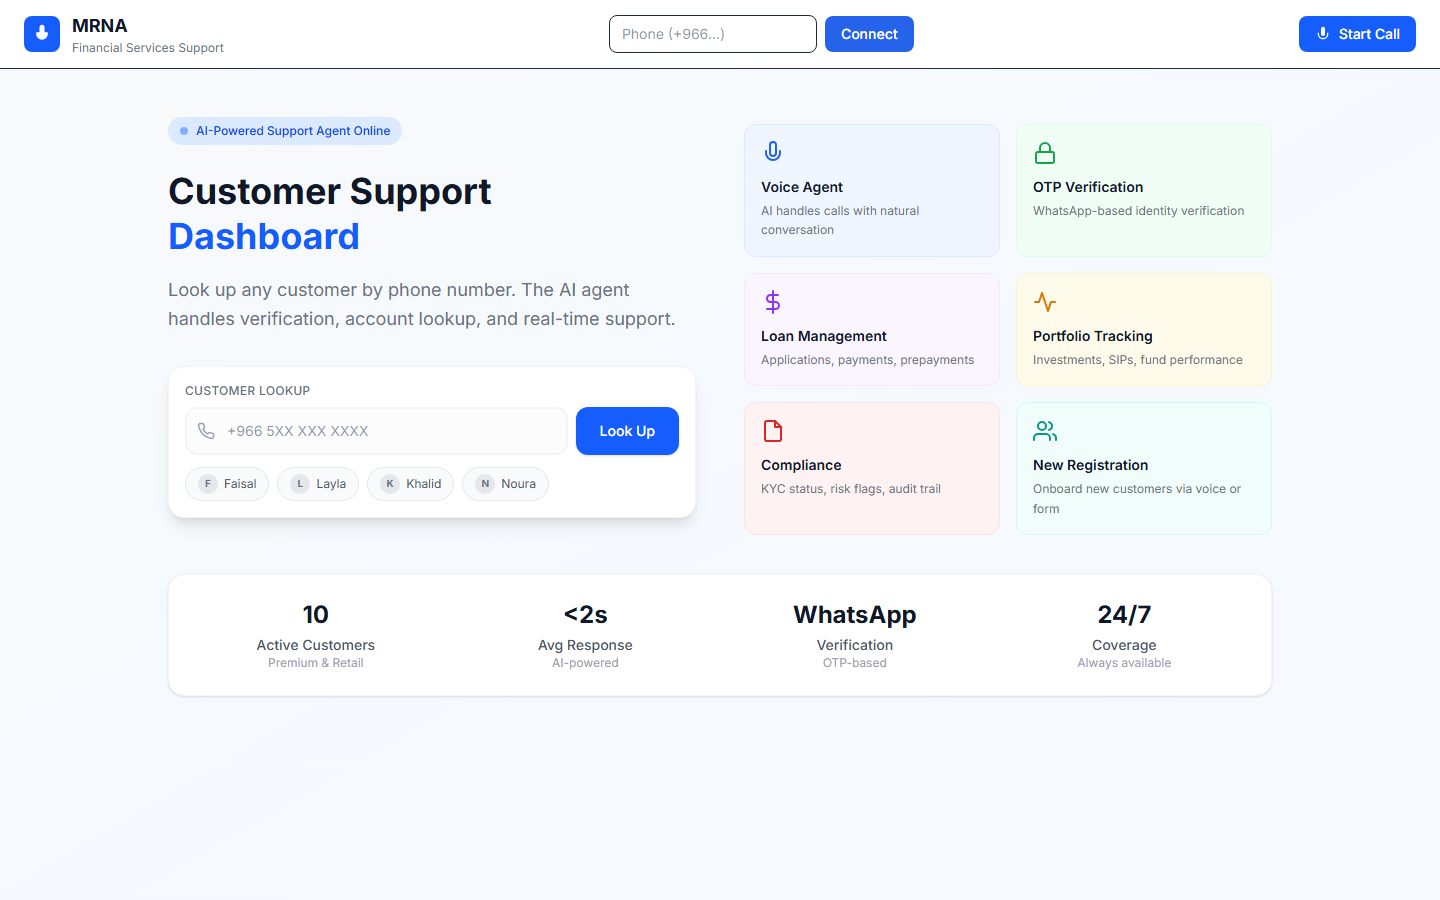
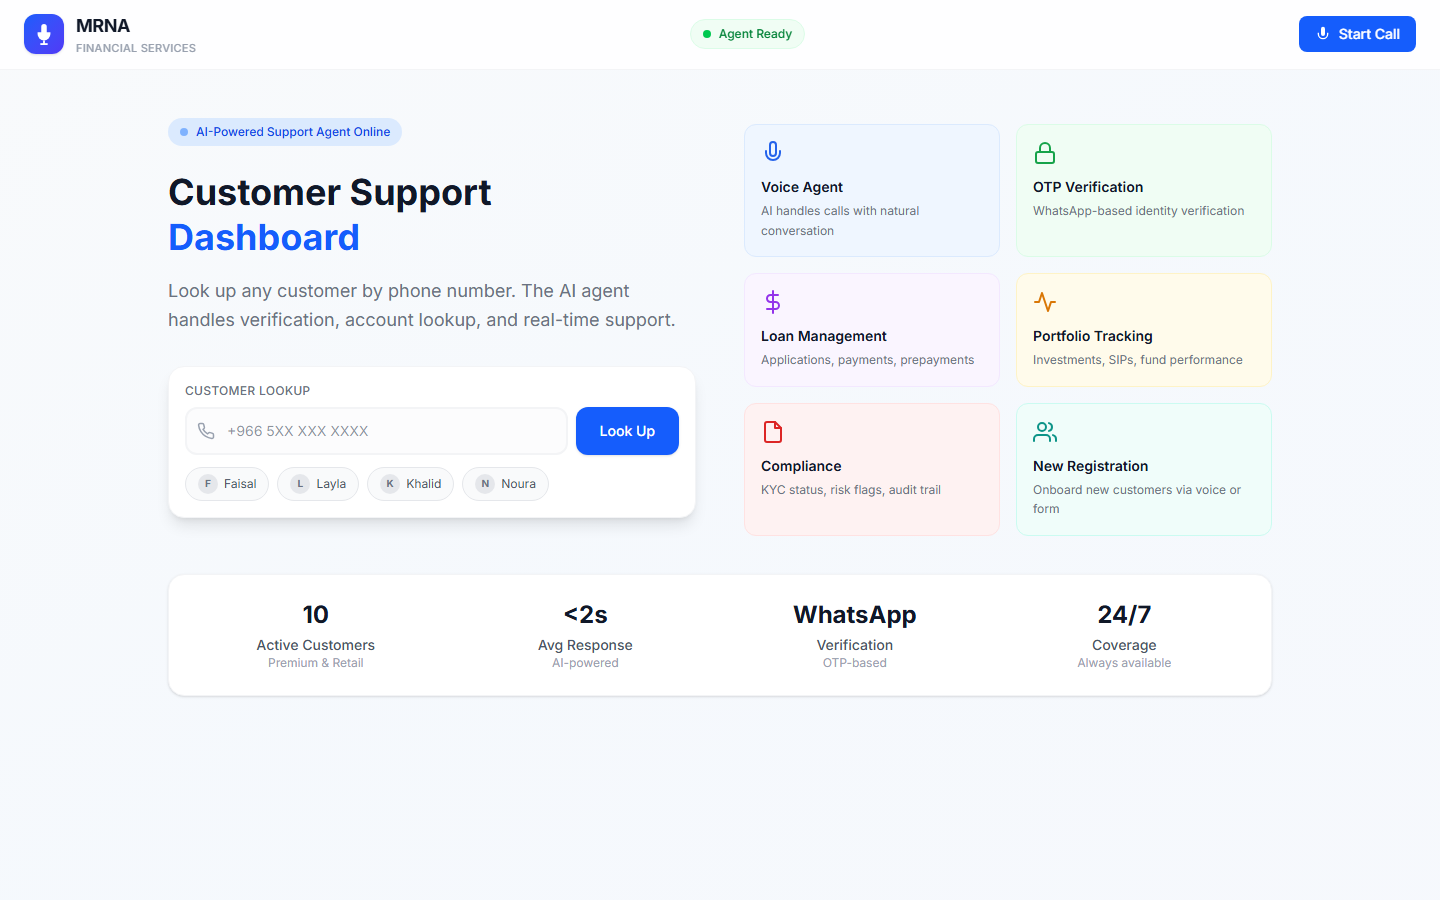
v2.9 - Clean header: remove search, add status indicators

diff --git a/frontend/src/app/page.tsx b/frontend/src/app/page.tsx
@@ -171,43 +171,49 @@ export default function Home() {
   return (
     <div className="min-h-screen" style={{ background: "var(--bg)" }}>
       {/* Header */}
-      <header className="bg-white border-b px-6 py-3 flex items-center justify-between sticky top-0 z-50">
+      <header className="bg-white/80 backdrop-blur-md border-b border-gray-100 px-6 py-3 flex items-center justify-between sticky top-0 z-50">
+        {/* Left: Brand */}
         <div className="flex items-center gap-3">
-          <div className="w-9 h-9 rounded-lg bg-blue-600 flex items-center justify-center">
-            <svg width="20" height="20" viewBox="0 0 24 24" fill="white"><path d="M12 1a3 3 0 0 0-3 3v8a3 3 0 0 0 6 0V4a3 3 0 0 0-3-3z"/><path d="M19 10v2a7 7 0 0 1-14 0v-2"/><line x1="12" y1="19" x2="12" y2="23"/><line x1="8" y1="23" x2="16" y2="23"/></svg>
+          <div className="w-10 h-10 rounded-xl bg-gradient-to-br from-blue-600 to-indigo-600 flex items-center justify-center shadow-sm">
+            <svg width="22" height="22" viewBox="0 0 24 24" fill="white" strokeWidth="0"><path d="M12 1a3 3 0 0 0-3 3v8a3 3 0 0 0 6 0V4a3 3 0 0 0-3-3z"/><path d="M19 10v2a7 7 0 0 1-14 0v-2"/><line x1="12" y1="19" x2="12" y2="23" stroke="white" strokeWidth="2"/><line x1="8" y1="23" x2="16" y2="23" stroke="white" strokeWidth="2"/></svg>
           </div>
           <div>
-            <h1 className="text-lg font-bold text-gray-900">MRNA</h1>
-            <p className="text-xs text-gray-500">Financial Services Support</p>
+            <h1 className="text-lg font-bold text-gray-900 tracking-tight">MRNA</h1>
+            <p className="text-[11px] text-gray-400 font-medium tracking-wide uppercase">Financial Services</p>
           </div>
         </div>
 
-        {/* Customer lookup */}
-        <div className="flex items-center gap-2">
-          <input
-            type="text"
-            placeholder="Phone (+966...)"
-            value={phone}
-            onChange={e => setPhone(e.target.value)}
-            onKeyDown={e => e.key === "Enter" && lookupAndCall()}
-            className="px-3 py-2 border rounded-lg text-sm w-52 focus:outline-none focus:ring-2 focus:ring-blue-500"
-          />
-          <button onClick={lookupAndCall} disabled={loading} className="btn btn-primary text-sm">
-            {loading ? "..." : "Connect"}
-          </button>
-        </div>
-
-        {/* Call status */}
-        <div className="flex items-center gap-3">
-          {callActive && (
-            <div className="flex items-center gap-2">
-              <span className="w-2.5 h-2.5 rounded-full bg-red-500 animate-pulse" />
-              <span className="text-sm font-medium text-red-600">LIVE</span>
+        {/* Center: Status indicators */}
+        <div className="flex items-center gap-4">
+          {callActive ? (
+            <>
+              <div className="flex items-center gap-2 px-3 py-1.5 bg-red-50 border border-red-100 rounded-full">
+                <span className="w-2 h-2 rounded-full bg-red-500 animate-pulse" />
+                <span className="text-xs font-semibold text-red-600 uppercase tracking-wide">Live Call</span>
+              </div>
+              {data?.customer && (
+                <div className="flex items-center gap-2 px-3 py-1.5 bg-blue-50 border border-blue-100 rounded-full">
+                  <span className="w-5 h-5 rounded-full bg-blue-600 flex items-center justify-center text-[10px] font-bold text-white">{(data.customer.name || "?")[0]}</span>
+                  <span className="text-xs font-medium text-blue-700">{data.customer.name}</span>
+                </div>
+              )}
+              {isNewCustomer && (
+                <div className="flex items-center gap-1.5 px-3 py-1.5 bg-amber-50 border border-amber-100 rounded-full">
+                  <svg width="12" height="12" viewBox="0 0 24 24" fill="none" stroke="#d97706" strokeWidth="2.5"><path d="M16 21v-2a4 4 0 0 0-4-4H6a4 4 0 0 0-4 4v2"/><circle cx="9" cy="7" r="4"/><line x1="19" y1="8" x2="19" y2="14"/><line x1="22" y1="11" x2="16" y2="11"/></svg>
+                  <span className="text-xs font-semibold text-amber-700">New Customer</span>
+                </div>
+              )}
+            </>
+          ) : (
+            <div className="flex items-center gap-2 px-3 py-1.5 bg-green-50 border border-green-100 rounded-full">
+              <span className="w-2 h-2 rounded-full bg-green-500" />
+              <span className="text-xs font-medium text-green-700">Agent Ready</span>
             </div>
           )}
-          {isNewCustomer && callActive && (
-            <span className="text-xs px-2 py-1 rounded-full bg-amber-100 text-amber-700 font-medium">New Customer</span>
-          )}
+        </div>
+
+        {/* Right: Voice button */}
+        <div className="flex items-center gap-3">
           <VoiceButton
             onCallStart={() => setCallActive(true)}
             onCallEnd={() => { setCallActive(false); setAutoCall(false); }}

diff --git a/agent/db/patch_header.py b/agent/db/patch_header.py
@@ -1,0 +1,78 @@
+"""Replace header: remove search field, enhance design."""
+import pathlib
+
+p = pathlib.Path(__file__).parent.parent.parent / "frontend" / "src" / "app" / "page.tsx"
+lines = p.read_text(encoding="utf-8").split("\n")
+
+# Find header start and end
+h_start = None
+h_end = None
+for i, line in enumerate(lines):
+    if "{/* Header */}" in line:
+        h_start = i
+    if h_start and "</header>" in line:
+        h_end = i
+        break
+
+if h_start is None or h_end is None:
+    print("ERROR: header not found")
+    raise SystemExit(1)
+
+new_header = '''      {/* Header */}
+      <header className="bg-white/80 backdrop-blur-md border-b border-gray-100 px-6 py-3 flex items-center justify-between sticky top-0 z-50">
+        {/* Left: Brand */}
+        <div className="flex items-center gap-3">
+          <div className="w-10 h-10 rounded-xl bg-gradient-to-br from-blue-600 to-indigo-600 flex items-center justify-center shadow-sm">
+            <svg width="22" height="22" viewBox="0 0 24 24" fill="white" strokeWidth="0"><path d="M12 1a3 3 0 0 0-3 3v8a3 3 0 0 0 6 0V4a3 3 0 0 0-3-3z"/><path d="M19 10v2a7 7 0 0 1-14 0v-2"/><line x1="12" y1="19" x2="12" y2="23" stroke="white" strokeWidth="2"/><line x1="8" y1="23" x2="16" y2="23" stroke="white" strokeWidth="2"/></svg>
+          </div>
+          <div>
+            <h1 className="text-lg font-bold text-gray-900 tracking-tight">MRNA</h1>
+            <p className="text-[11px] text-gray-400 font-medium tracking-wide uppercase">Financial Services</p>
+          </div>
+        </div>
+
+        {/* Center: Status indicators */}
+        <div className="flex items-center gap-4">
+          {callActive ? (
+            <>
+              <div className="flex items-center gap-2 px-3 py-1.5 bg-red-50 border border-red-100 rounded-full">
+                <span className="w-2 h-2 rounded-full bg-red-500 animate-pulse" />
+                <span className="text-xs font-semibold text-red-600 uppercase tracking-wide">Live Call</span>
+              </div>
+              {data?.customer && (
+                <div className="flex items-center gap-2 px-3 py-1.5 bg-blue-50 border border-blue-100 rounded-full">
+                  <span className="w-5 h-5 rounded-full bg-blue-600 flex items-center justify-center text-[10px] font-bold text-white">{(data.customer.name || "?")[0]}</span>
+                  <span className="text-xs font-medium text-blue-700">{data.customer.name}</span>
+                </div>
+              )}
+              {isNewCustomer && (
+                <div className="flex items-center gap-1.5 px-3 py-1.5 bg-amber-50 border border-amber-100 rounded-full">
+                  <svg width="12" height="12" viewBox="0 0 24 24" fill="none" stroke="#d97706" strokeWidth="2.5"><path d="M16 21v-2a4 4 0 0 0-4-4H6a4 4 0 0 0-4 4v2"/><circle cx="9" cy="7" r="4"/><line x1="19" y1="8" x2="19" y2="14"/><line x1="22" y1="11" x2="16" y2="11"/></svg>
+                  <span className="text-xs font-semibold text-amber-700">New Customer</span>
+                </div>
+              )}
+            </>
+          ) : (
+            <div className="flex items-center gap-2 px-3 py-1.5 bg-green-50 border border-green-100 rounded-full">
+              <span className="w-2 h-2 rounded-full bg-green-500" />
+              <span className="text-xs font-medium text-green-700">Agent Ready</span>
+            </div>
+          )}
+        </div>
+
+        {/* Right: Voice button */}
+        <div className="flex items-center gap-3">
+          <VoiceButton
+            onCallStart={() => setCallActive(true)}
+            onCallEnd={() => { setCallActive(false); setAutoCall(false); }}
+            onEvent={handleVoiceEvent}
+            customerPhone={phone}
+            autoStart={autoCall}
+            onAutoStartConsumed={() => setAutoCall(false)}
+          />
+        </div>
+      </header>'''
+
+lines[h_start:h_end+1] = new_header.split("\n")
+p.write_text("\n".join(lines), encoding="utf-8")
+print(f"Replaced header (lines {h_start+1}-{h_end+1})")
